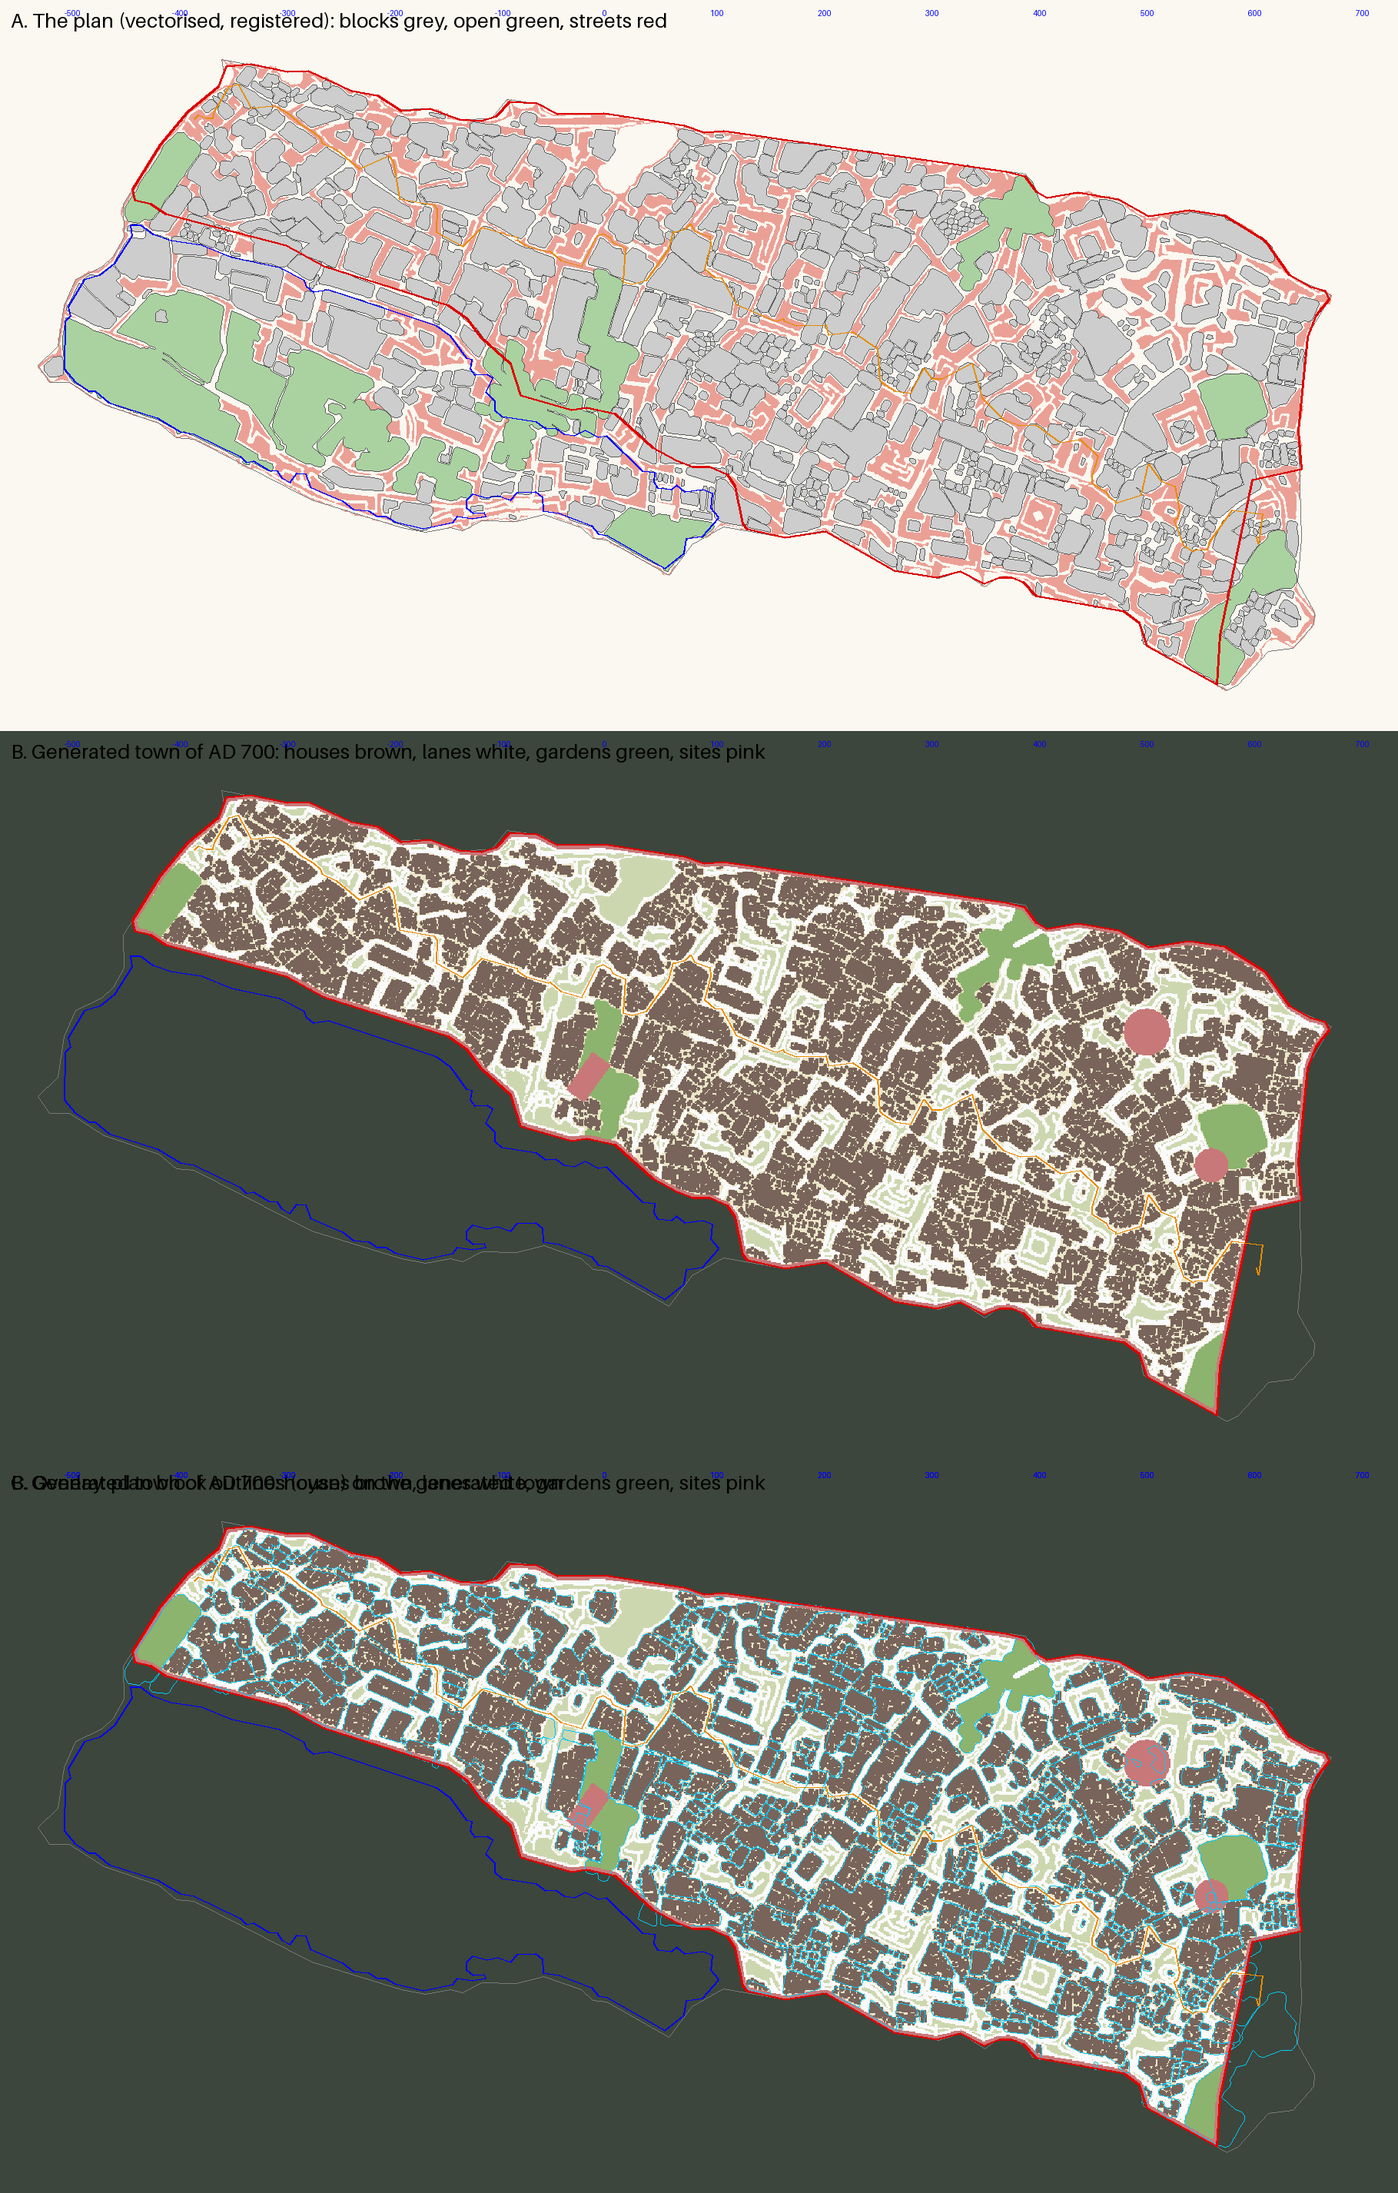
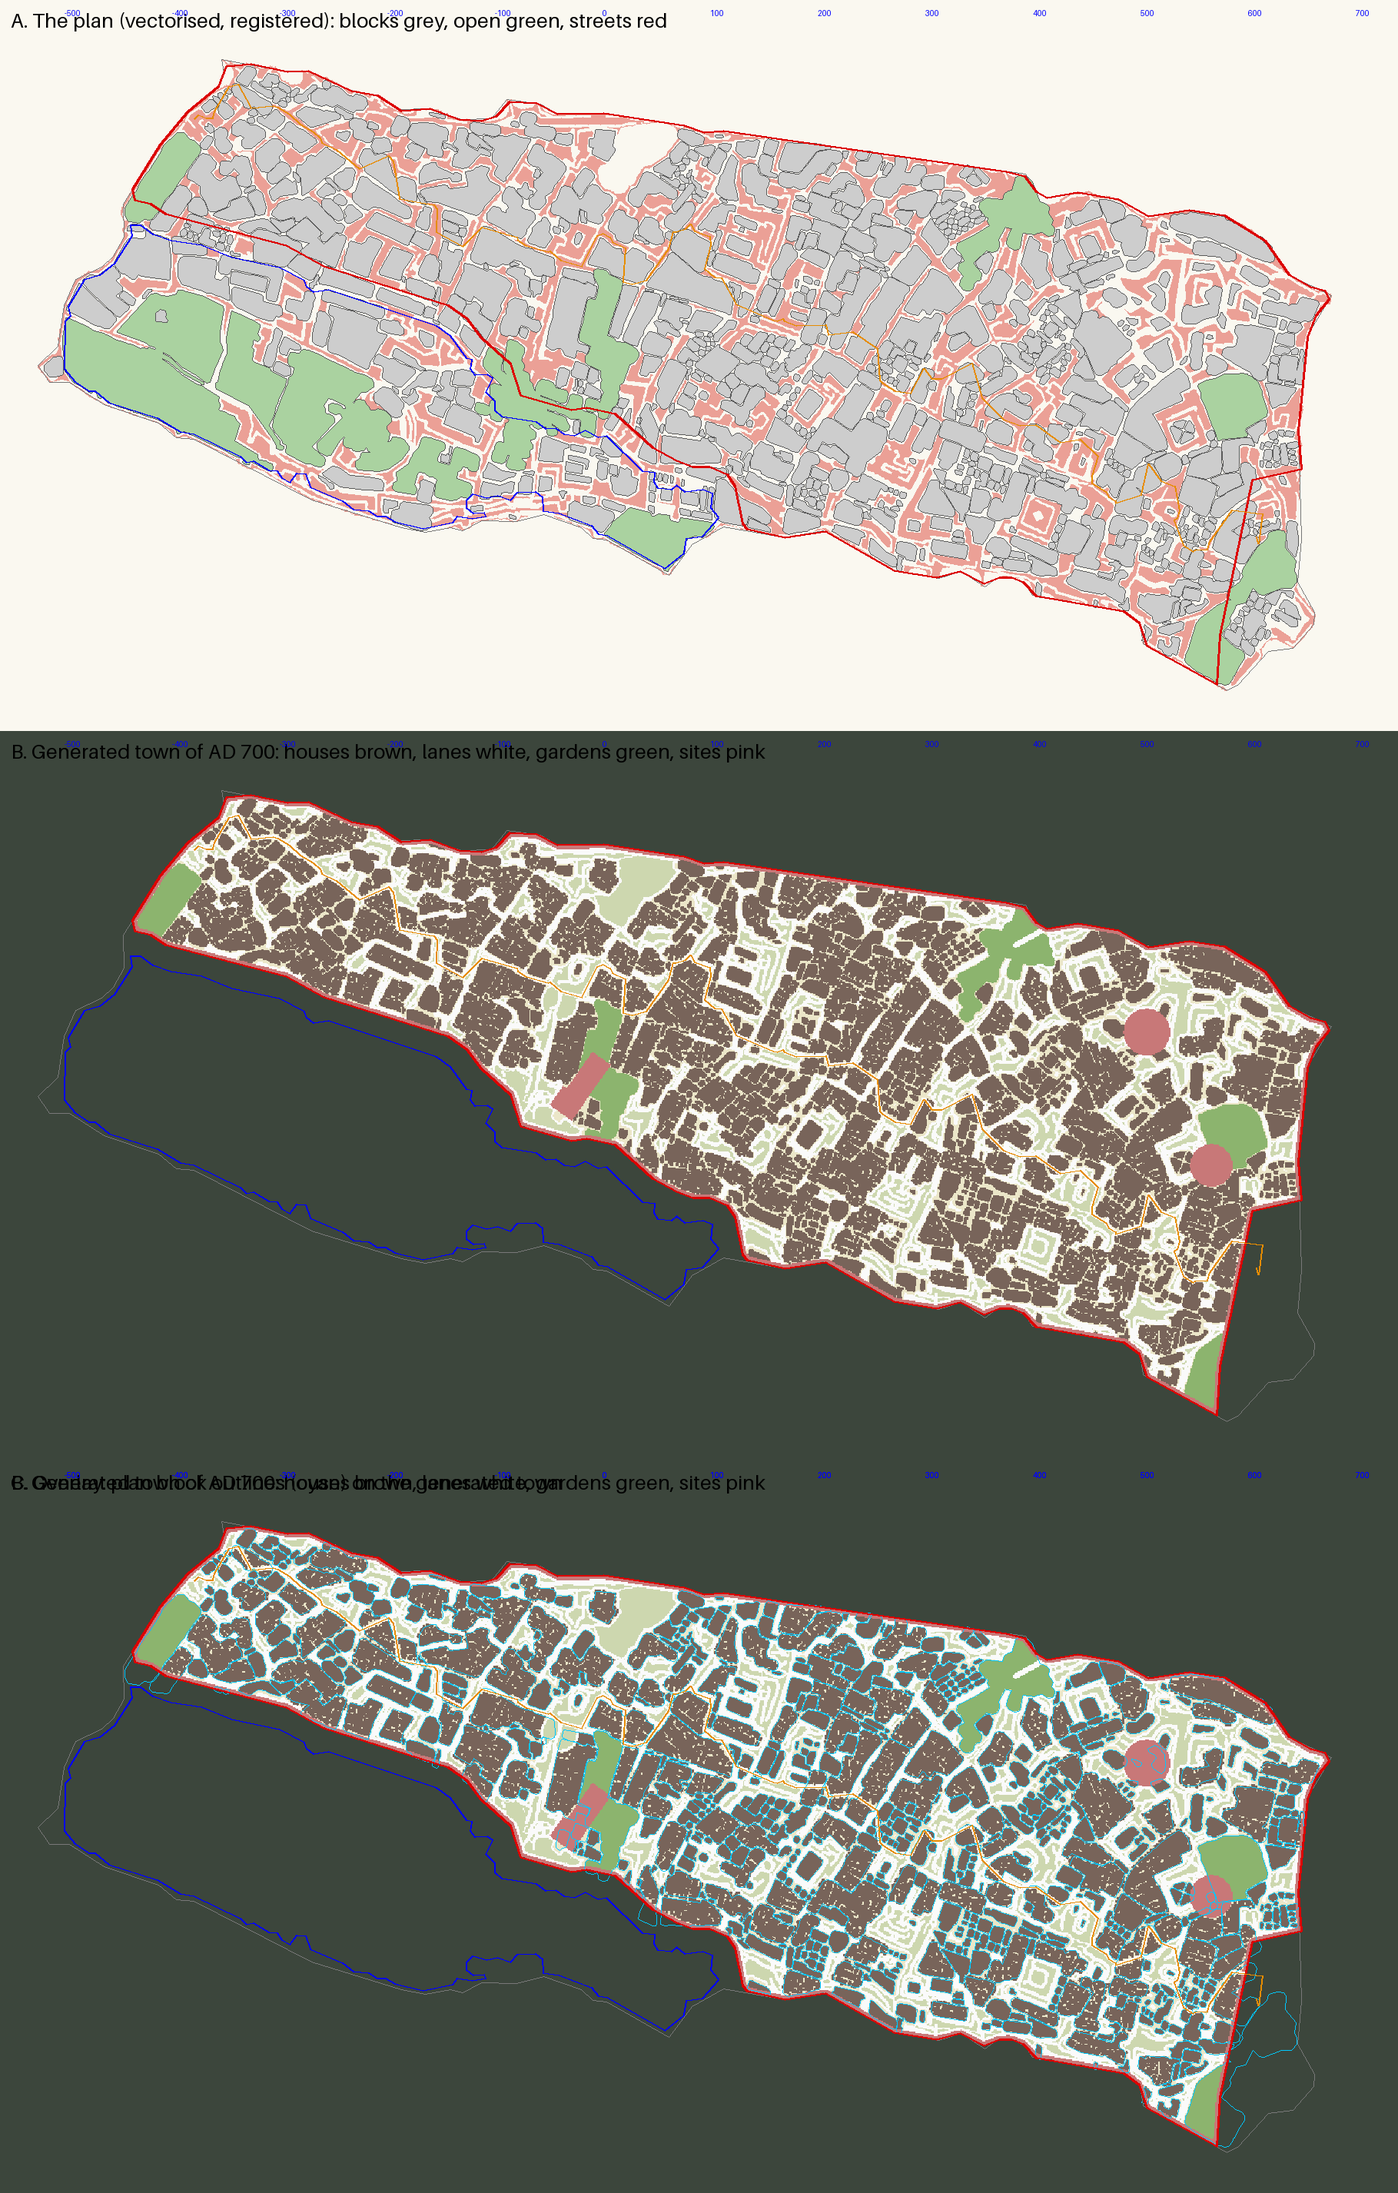
Benevento: houses take the footprints the plan draws
Every drawn cell of a plan block is now one building with its drawn
(irregular) outline, simplified to <= ~10 corners, fronted on its lane
side, with a hipped roof that follows the footprint (polyRoof). Cells
drawn inside others: a thin leftover band = a ring of buildings round a
courtyard (left open); otherwise a yard with buildings in it. Only cells
over ~420 m2 (blocks drawn without inner lines) are tiled as before.
Parcel raster filled largest-first so inner cells own their ground.
prismWalls winds by signed area (concave footprints); the far LOD
handles n-gon footprints. layout_vs_plan.py writes zoomed overlays.

Claude-Session: https://claude.ai/code/session_01AdHbdqHv5862Z3esJRWdAT

diff --git a/src/benevento/layout.ts b/src/benevento/layout.ts
@@ -160,7 +160,9 @@ export function layoutTown(seed = 700): Layout {
   }
   // 2. The plan's blocks: each a parcel id.
   const parcels = GEO_PARCELS.filter((p) => p.in);
-  parcels.forEach((p, n) => r.fill(p.pts, (k) => { if (r.grid[k] === FREE) r.parcel[k] = n + 1; }));
+  // Largest first, so a cell drawn inside another (a courtyard in a ring of
+  // buildings, a house standing in a yard) owns its own ground.
+  [...parcels.keys()].sort((a, b) => parcels[b].a - parcels[a].a).forEach((n) => r.fill(parcels[n].pts, (k) => { if (r.grid[k] === FREE) r.parcel[k] = n + 1; }));
   // The plan's street spaces; the ink between them and the blocks is shared out
   // (half to each), and a line between two blocks is their party wall.
   {
@@ -259,7 +261,7 @@ export function layoutTown(seed = 700): Layout {
 
   // 5. What each block was in 700: as the plan says, a block is built up and
   //    an open space is a garden, a vineyard, a pen, a meadow or a ruin.
-  type Use = 'built' | 'site' | PlotKind;
+  type Use = 'built' | 'site' | 'house' | 'court' | PlotKind;
   const use: Use[] = [];
   // Blocks a landmark precinct cuts into belong to the landmark.
   const tot = new Uint32Array(parcels.length + 1), res = new Uint32Array(parcels.length + 1);
@@ -326,6 +328,82 @@ export function layoutTown(seed = 700): Layout {
     return w;
   };
   const strict = (pid: number) => (q: number) => q === pid;
+  // The plan draws the houses themselves: every cell of a block between its
+  // lines is one building, as drawn (irregular footprints kept, simplified
+  // to at most ~10 corners); courtyards only where the plan draws a cell in
+  // a ring of others. Only cells too big for one house (blocks drawn without
+  // inner lines) are filled by the passes below.
+  const simplify = (pts: V2[], tol: number): V2[] => {
+    const ring = [...pts, pts[0]];
+    const dp = (a: number, b: number, out: number[]) => {
+      let best = -1, bd = tol;
+      for (let i = a + 1; i < b; i++) { const d = distSeg(ring[i], ring[a], ring[b]); if (d > bd) { bd = d; best = i; } }
+      if (best < 0) return;
+      dp(a, best, out); out.push(best); dp(best, b, out);
+    };
+    // Split the ring at its two farthest points so the recursion has ends.
+    let far = 0, fd = 0;
+    for (let i = 1; i < pts.length; i++) { const d = pts[i].distanceTo(pts[0]); if (d > fd) { fd = d; far = i; } }
+    const idx: number[] = [0];
+    dp(0, far, idx); idx.push(far); dp(far, ring.length - 1, idx);
+    return idx.map((i) => ring[i]);
+  };
+  const CELL_MAX = 420;
+  // Cells drawn inside other cells. A container whose leftover is a thin band
+  // round its children is a ring of buildings round a courtyard (a cloister, a
+  // courtyard house); a container with room to spare is a yard with buildings
+  // standing in it.
+  const centroid = (pts: P2[]) => { let x = 0, z = 0; for (const [a, b] of pts) { x += a / pts.length; z += b / pts.length; } return [x, z] as P2; };
+  const bbox = parcels.map((p) => { let x0 = Infinity, x1 = -Infinity, z0 = Infinity, z1 = -Infinity; for (const [x, z] of p.pts) { x0 = Math.min(x0, x); x1 = Math.max(x1, x); z0 = Math.min(z0, z); z1 = Math.max(z1, z); } return [x0, z0, x1, z1]; });
+  const children: number[][] = parcels.map(() => []);
+  const parentOf: number[] = parcels.map(() => -1);
+  parcels.forEach((q, j) => {
+    const [cx, cz] = centroid(q.pts);
+    let best = -1;
+    parcels.forEach((p, i) => {
+      if (i === j || p.a <= q.a * 1.3) return;
+      const b2 = bbox[i];
+      if (cx < b2[0] || cx > b2[2] || cz < b2[1] || cz > b2[3] || !inPoly(cx, cz, p.pts)) return;
+      if (best < 0 || p.a < parcels[best].a) best = i;
+    });
+    if (best >= 0) { children[best].push(j); parentOf[j] = best; }
+  });
+  parcels.forEach((p, i) => {
+    if (!children[i].length || use[i + 1] !== 'built') return;
+    let per = 0, ca = 0;
+    for (let k = 0; k < p.pts.length; k++) { const a = p.pts[k], b = p.pts[(k + 1) % p.pts.length]; per += Math.hypot(b[0] - a[0], b[1] - a[1]); }
+    for (const j of children[i]) ca += parcels[j].a;
+    const band = (p.a - ca) / Math.max(1, per);
+    if (band < 9) { for (const j of children[i]) if (use[j + 1] === 'built') use[j + 1] = 'court'; }
+    else use[i + 1] = 'court';
+  });
+  parcels.forEach((p, n) => {
+    const pid = n + 1;
+    if (use[pid] !== 'built') return;
+    let pts = p.pts.map(([x, z]) => V(x, z));
+    if (children[n].length) return; // a ring round a courtyard: filled by the passes below
+    if (p.a > CELL_MAX) return;
+    for (const tol of [0.45, 0.7, 1.0, 1.4]) { pts = simplify(p.pts.map(([x, z]) => V(x, z)), tol); if (pts.length <= 10) break; }
+    if (pts.length < 3) return;
+    // The front: the longest side with a lane in front of it; it becomes edge 0→1.
+    let fk = -1, fl = 0, fout = V(0, 0);
+    for (let k = 0; k < pts.length; k++) {
+      const a = pts[k], b = pts[(k + 1) % pts.length], L = a.distanceTo(b);
+      if (L < 2.4 || L <= fl) continue;
+      const e = b.clone().sub(a).normalize(), m = a.clone().add(b).multiplyScalar(0.5);
+      for (const sd of [-1, 1]) {
+        const o = V(-e.y * sd, e.x * sd);
+        if (r.at(m.x + o.x * 1.3, m.y + o.y * 1.3) === STREET && r.pid(m.x - o.x * 1.3, m.y - o.y * 1.3) === pid) { fk = k; fl = L; fout = o; }
+      }
+    }
+    use[pid] = 'house';
+    r.fill(p.pts, (kk) => { if (r.grid[kk] === FREE) r.grid[kk] = HOUSE; });
+    const h0 = density(pts[0].x, pts[0].y);
+    if (fk < 0) { lay.lots.push({ id: lotId++, c: pts, h: R(4, 8) * (0.8 + 0.3 * h0), parcel: pid }); return; }
+    const c = [...pts.slice(fk), ...pts.slice(0, fk)];
+    const mid = c[0].clone().add(c[1]).multiplyScalar(0.5);
+    lay.lots.push({ id: lotId++, c, front: { a: c[0].clone(), b: c[1].clone(), out: fout }, h: R(5, 10.5) * (0.75 + 0.35 * h0), street: Math.max(1.5, widthAt(mid, fout)), parcel: pid });
+  });
   parcels.forEach((p, n) => {
     const pid = n + 1;
     if (!frontOk(pid)) return;
@@ -447,7 +525,7 @@ export function layoutTown(seed = 700): Layout {
   for (const t of EXPLORE_TARGETS) {
     let best: TownLot | null = null, bd = Infinity;
     for (const l of lay.lots) {
-      if (!l.front || taken.has(l.id)) continue;
+      if (!l.front || taken.has(l.id) || l.c.length !== 4) continue;
       const w = l.c[0].distanceTo(l.c[1]), d = l.c[1].distanceTo(l.c[2]);
       if (w < 3.6 || d < 4.2 || w > 8.5) continue;
       const m = l.c[0].clone().add(l.c[2]).multiplyScalar(0.5);

diff --git a/src/town.ts b/src/town.ts
@@ -73,6 +73,9 @@ export function prismWalls(c: V2[], y0: number, h: number, step = WALL_STEP, ski
   };
   const pos: number[] = [], idx: number[] = [];
   const nv = Math.max(1, Math.ceil(h / step));
+  // Winding from the polygon's signed area (right for concave footprints too).
+  let area2 = 0;
+  for (let k = 0; k < n; k++) { const a = c[k], b = c[(k + 1) % n]; area2 += a.x * b.y - b.x * a.y; }
   for (let k = 0; k < n; k++) {
     if (k === skip) continue;
     const a = c[k], b = c[(k + 1) % n];
@@ -91,8 +94,7 @@ export function prismWalls(c: V2[], y0: number, h: number, step = WALL_STEP, ski
         : u >= L - dB ? arc(kb, corner[kb].eB, L - u)
           : a.clone().addScaledVector(e, u));
     const nu = cols.length - 1;
-    const mx = (a.x + b.x) / 2 - cx, mz = (a.y + b.y) / 2 - cz;
-    const flip = -e.y * mx + e.x * mz < 0;
+    const flip = area2 > 0;
     const base = pos.length / 3;
     for (let j = 0; j <= nv; j++) for (const p of cols) pos.push(p.x, y0 + (h * j) / nv, p.y);
     for (let j = 0; j < nv; j++) for (let i = 0; i < nu; i++) {
@@ -129,9 +131,15 @@ export function buildHouse(b: Builder, lot: Lot) {
   if (front) {
     const width = lot.street ?? 2;
     jetty = facade(b, acc, { a: front.a, b: front.b, out: front.out, base, h1, h: Math.max(h, h1 + 0.01), lower, upper, street: width, lamp: rand() < 0.2 });
-    if (jetty > 0) c = [c[0].clone().addScaledVector(front.out, jetty), c[1].clone().addScaledVector(front.out, jetty), c[2], c[3]];
+    if (jetty > 0) c = c.map((p, i) => (i < 2 ? p.clone().addScaledVector(front.out, jetty) : p));
   } else {
     backWindows(acc, c, base, h, lower);
+  }
+  // A footprint drawn on the plan that is no quad gets a hipped roof that follows it.
+  if (c.length !== 4) {
+    polyRoof(b, c, h, front ? 0.42 : 0.5, R(0.3, 0.45));
+    acc.flush(b);
+    return;
   }
   // Roof over the footprint's oriented bounds, ridge along or across the street.
   const e = c[1].clone().sub(c[0]).normalize();
@@ -157,13 +165,76 @@ export function buildHouse(b: Builder, lot: Lot) {
   acc.flush(b);
 }
 
+/**
+ * A hipped roof over any footprint: every eave runs along a wall (pushed out
+ * by `over`), rising at `pitch` to a ridge line along the footprint's long
+ * axis, so irregular plots from the plan keep their drawn shape. Plain tile
+ * surface, a low eave fascia; two triangles per wall.
+ */
+export function polyRoof(b: Builder, c: V2[], h: number, pitch: number, over: number) {
+  const n = c.length;
+  let area2 = 0, cx = 0, cz = 0;
+  for (let k = 0; k < n; k++) { const a = c[k], q = c[(k + 1) % n]; const cr = a.x * q.y - q.x * a.y; area2 += cr; cx += (a.x + q.x) * cr; cz += (a.y + q.y) * cr; }
+  if (Math.abs(area2) < 1e-6) return;
+  cx /= 3 * area2; cz /= 3 * area2;
+  // Long axis from the second moments; the ridge runs along it through the centroid.
+  let sxx = 0, szz = 0, sxz = 0;
+  for (const p of c) { sxx += (p.x - cx) ** 2; szz += (p.y - cz) ** 2; sxz += (p.x - cx) * (p.y - cz); }
+  const th = 0.5 * Math.atan2(2 * sxz, sxx - szz), ax = V(Math.cos(th), Math.sin(th)), nx = V(-ax.y, ax.x);
+  let u0 = Infinity, u1 = -Infinity, w0 = Infinity, w1 = -Infinity;
+  for (const p of c) { const u = (p.x - cx) * ax.x + (p.y - cz) * ax.y, w = (p.x - cx) * nx.x + (p.y - cz) * nx.y; u0 = Math.min(u0, u); u1 = Math.max(u1, u); w0 = Math.min(w0, w); w1 = Math.max(w1, w); }
+  const half = (w1 - w0) / 2, wm = (w0 + w1) / 2;
+  const ridgeH = h + Math.min(half * pitch, 3.2);
+  const r0 = Math.max(u0 + half * 0.8, (u0 + u1) / 2 - 0.01), r1 = Math.min(u1 - half * 0.8, (u0 + u1) / 2 + 0.01);
+  // Height of the roof over a point: rises from the eaves towards the ridge segment.
+  const ridgePt = (p: V2) => {
+    const u = THREE.MathUtils.clamp((p.x - cx) * ax.x + (p.y - cz) * ax.y, r0, r1);
+    return V(cx + ax.x * u + nx.x * wm, cz + ax.y * u + nx.y * wm);
+  };
+  const pos: number[] = [];
+  const sgn = area2 > 0 ? 1 : -1;
+  for (let k = 0; k < n; k++) {
+    const a = c[k], q = c[(k + 1) % n];
+    const e = q.clone().sub(a);
+    const L = e.length();
+    if (L < 0.05) continue;
+    e.multiplyScalar(1 / L);
+    const out = V(e.y, -e.x).multiplyScalar(sgn);
+    const A = a.clone().addScaledVector(out, over).addScaledVector(e, -over), Q = q.clone().addScaledVector(out, over).addScaledVector(e, over);
+    const ra = ridgePt(a), rq = ridgePt(q);
+    const yE = h - over * pitch;
+    const tri = (p1: number[], p2: number[], p3: number[]) => {
+      // Wind so the face looks up.
+      const ux = p2[0] - p1[0], uz = p2[2] - p1[2], vx = p3[0] - p1[0], vz = p3[2] - p1[2];
+      const ny = uz * vx - ux * vz;
+      if (ny >= 0) pos.push(...p1, ...p2, ...p3); else pos.push(...p1, ...p3, ...p2);
+    };
+    const PA = [A.x, yE, A.y], PQ = [Q.x, yE, Q.y], RA = [ra.x, ridgeH, ra.y], RQ = [rq.x, ridgeH, rq.y];
+    tri(PA, PQ, RQ);
+    if (ra.distanceTo(rq) > 0.02) tri(PA, RQ, RA);
+    // Fascia under the eave.
+    const FA = [A.x, yE - 0.18, A.y], FQ = [Q.x, yE - 0.18, Q.y];
+    {
+      // Wind the fascia to face outwards.
+      const ux = FA[0] - PA[0], uy = FA[1] - PA[1], uz = FA[2] - PA[2], vx = FQ[0] - PA[0], vy = FQ[1] - PA[1], vz = FQ[2] - PA[2];
+      const fx = uy * vz - uz * vy, fz = ux * vy - uy * vx;
+      if (fx * out.x + fz * out.y >= 0) pos.push(...PA, ...FA, ...FQ, ...PA, ...FQ, ...PQ);
+      else pos.push(...PA, ...FQ, ...FA, ...PA, ...PQ, ...FQ);
+    }
+  }
+  const g = new THREE.BufferGeometry();
+  g.setAttribute('position', new THREE.Float32BufferAttribute(pos, 3));
+  g.computeVertexNormals();
+  b.add(g, 'roof', undefined, false, false);
+}
+
 /** Back buildings: a few small dark windows and putlog holes on their walls. */
 function backWindows(acc: Acc, c: V2[], base: number, h: number, m: MatName) {
   let cx = 0, cz = 0;
-  for (const p of c) { cx += p.x / 4; cz += p.y / 4; }
-  for (let k = 0; k < 4; k++) {
+  for (const p of c) { cx += p.x / c.length; cz += p.y / c.length; }
+  for (let k = 0; k < c.length; k++) {
     if (rand() < 0.45) continue;
-    const a = c[k], bb = c[(k + 1) % 4];
+    const a = c[k], bb = c[(k + 1) % c.length];
     const L = a.distanceTo(bb);
     if (L < 1.5) continue;
     const e = bb.clone().sub(a).normalize();

diff --git a/src/benevento/fabric.ts b/src/benevento/fabric.ts
@@ -437,13 +437,19 @@ export function lodChunk(it: ChunkItems): { walls: number[]; roofs: number[] } {
   };
   const Y = (x: number, z: number, y: number) => [x, y + fastTerrain(x, z), z];
   for (const l of it.lots) {
-    const c = l.c, h = l.h;
-    const lx = (c[0][0] + c[1][0] + c[2][0] + c[3][0]) / 4, lz = (c[0][1] + c[1][1] + c[2][1] + c[3][1]) / 4;
+    const c = l.c, h = l.h, n = c.length;
+    let lx = 0, lz = 0;
+    for (const [x, z] of c) { lx += x / n; lz += z / n; }
     inside = [lx, fastTerrain(lx, lz) + h * 0.5 - 2, lz];
-    for (let k = 0; k < 4; k++) {
-      const [ax, az] = c[k], [bx, bz] = c[(k + 1) % 4];
+    for (let k = 0; k < n; k++) {
+      const [ax, az] = c[k], [bx, bz] = c[(k + 1) % n];
       const A0 = Y(ax, az, -0.6), B0 = Y(bx, bz, -0.6), A1 = Y(ax, az, h), B1 = Y(bx, bz, h);
       tri(walls, A0, B0, B1); tri(walls, A0, B1, A1);
+    }
+    // Footprints drawn on the plan that are no quads: a flat cap at the eaves (it is far away).
+    if (n !== 4) {
+      for (let k = 1; k < n - 1; k++) tri(roofs, Y(c[0][0], c[0][1], h), Y(c[k][0], c[k][1], h), Y(c[k + 1][0], c[k + 1][1], h));
+      continue;
     }
     // Ridge along the longer side.
     const e01 = Math.hypot(c[1][0] - c[0][0], c[1][1] - c[0][1]), e12 = Math.hypot(c[2][0] - c[1][0], c[2][1] - c[1][1]);

diff --git a/tools/benevento/layout_vs_plan.py b/tools/benevento/layout_vs_plan.py
@@ -37,3 +37,13 @@ out.paste(a, (0, 0)); out.paste(b, (0, Hd)); out.paste(c, (0, 2 * Hd))
 out.save(os.path.join(ROOT, 'docs/benevento/layout-vs-plan.png'), optimize=True)
 c.crop((int(250 * S), int(150 * S), int(800 * S), int(500 * S))).save(D + 'cmp_zoom.png')
 print(out.size)
+# Zoomed overlays: the plan's drawn cell outlines (black) over the generated footprints.
+Z = 4
+for name, (x0, z0, x1, z1) in {'centre': (-80, -200, 60, -60), 'east': (360, -160, 500, -20), 'west': (-330, -250, -190, -110), 'north': (120, -260, 260, -120)}.items():
+    crop = lay.crop((int(x0 - m['x0']), int(z0 - m['z0']), int(x1 - m['x0']), int(z1 - m['z0']))).resize((int((x1 - x0) * Z), int((z1 - z0) * Z)), Image.NEAREST)
+    dz = ImageDraw.Draw(crop)
+    Pz = lambda q: ((q[0] - x0) * Z, (q[1] - z0) * Z)
+    for q in g['parcels']:
+        if q['in']: dz.polygon([Pz(v) for v in q['pts']], outline=(0, 0, 0))
+    crop.save(D + 'zoom_' + name + '.png')
+print('zooms written to', D)
